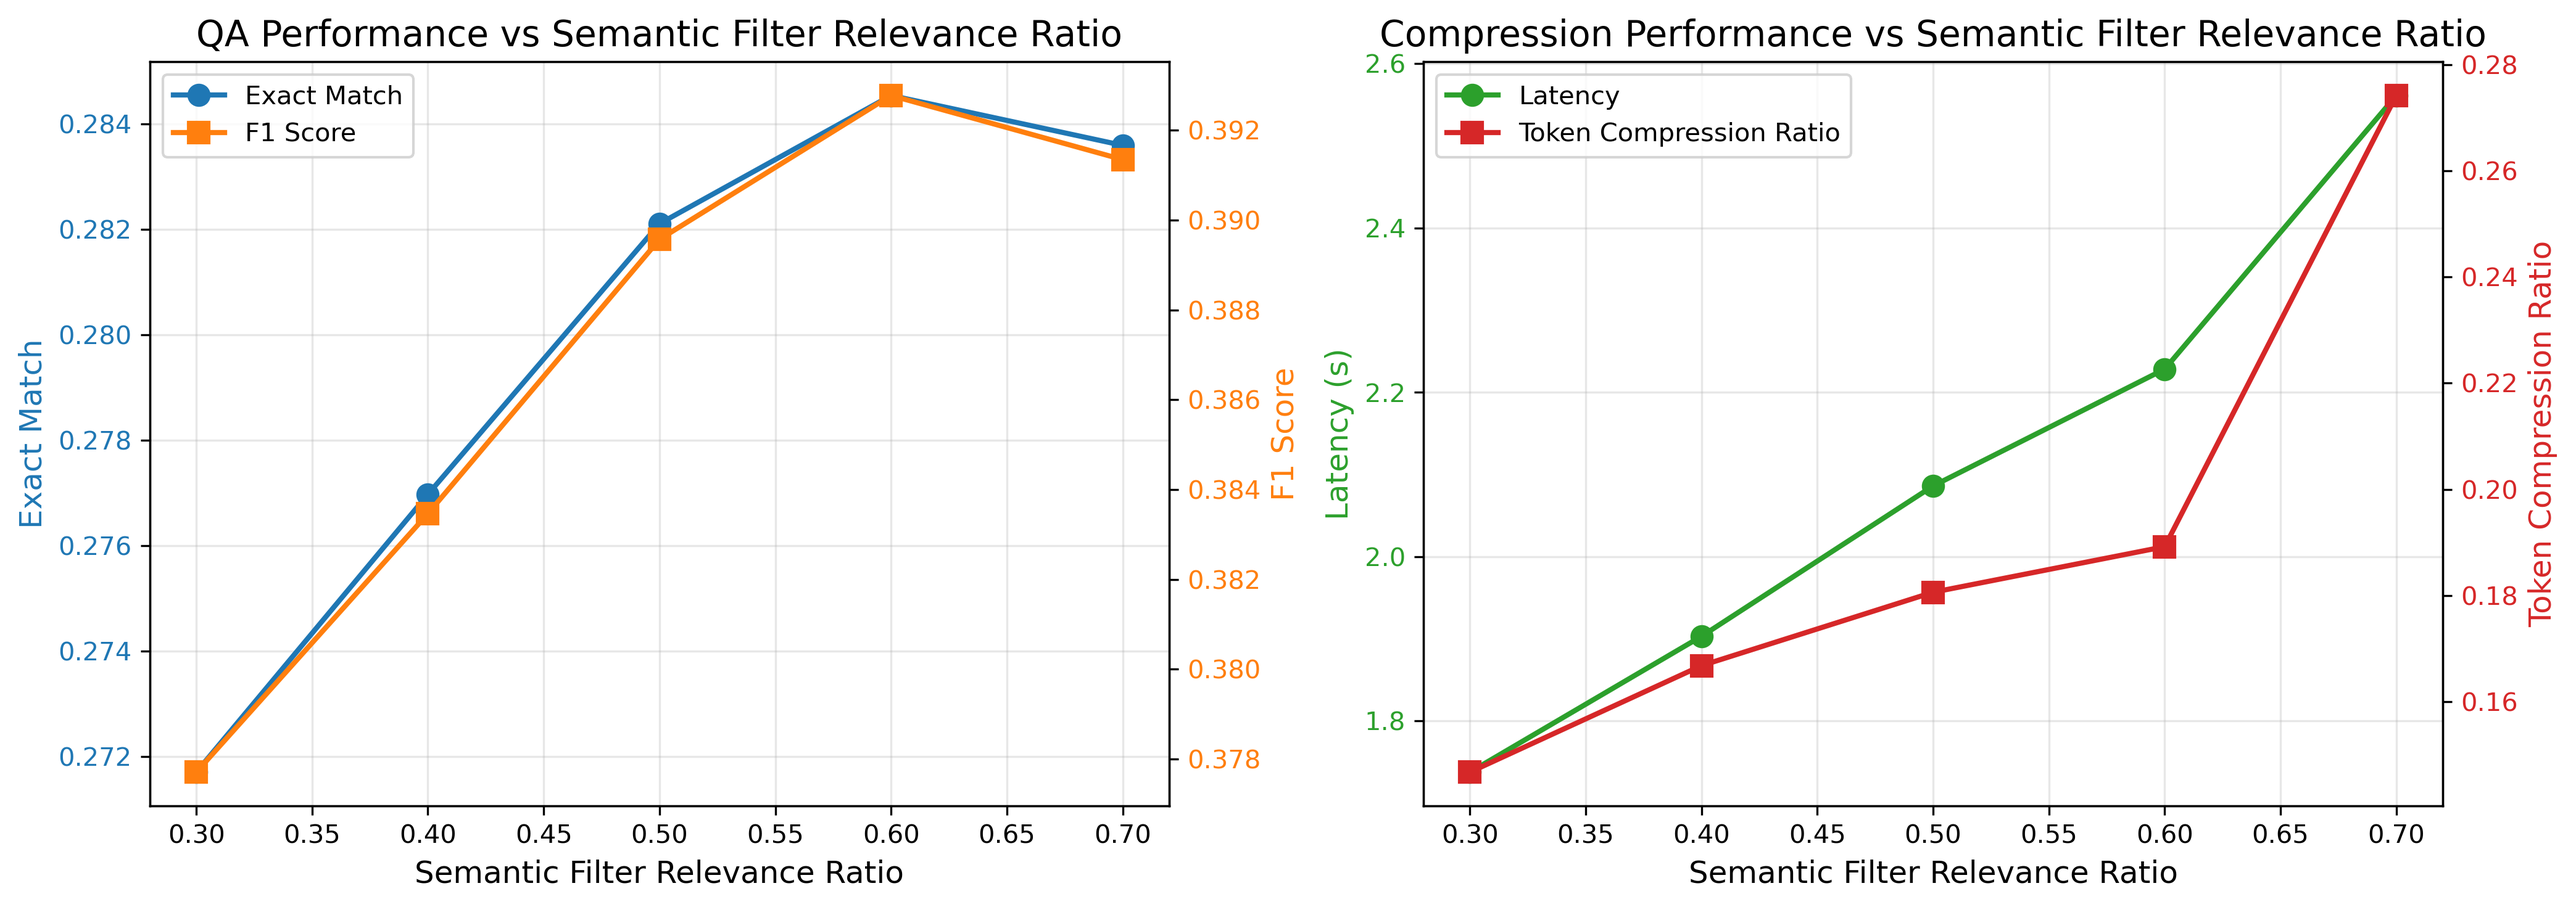
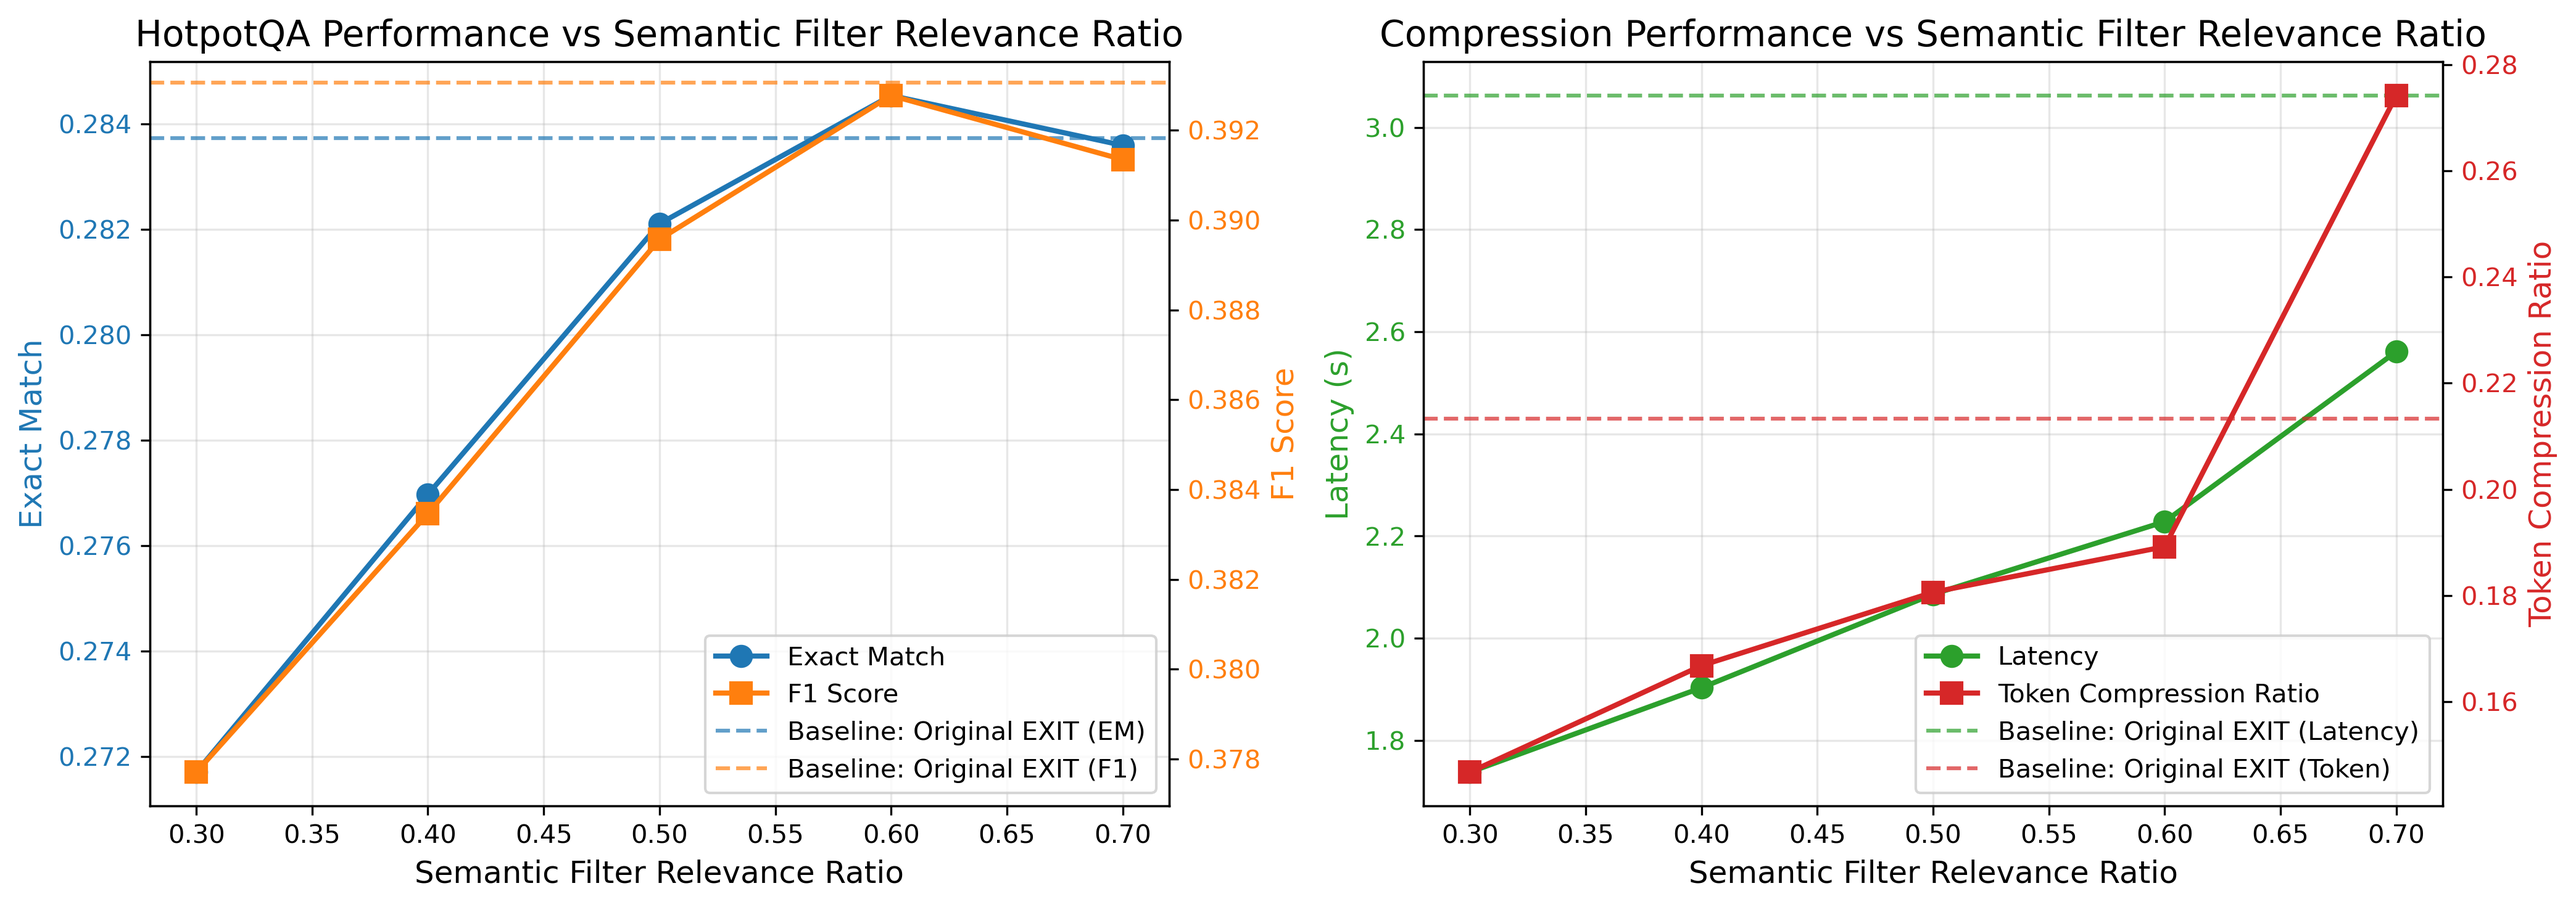
Add baseline lines

diff --git a/scripts/plot_tiered_tradeoff.py b/scripts/plot_tiered_tradeoff.py
@@ -30,6 +30,16 @@ for ratio, filepath in data_files:
         latency.append(metrics['latency'])
         token_compression.append(metrics['token_compression_ratio'])
 
+# Read baseline data
+with open(r"outputs\baseline_results\reproduction_0.1\HotpotQA_results.json", 'r', encoding="utf-8") as f:
+    baseline_data = json.load(f)
+    baseline_metrics = baseline_data['metrics']
+    
+    baseline_em = baseline_metrics['exact_match']
+    baseline_f1 = baseline_metrics['f1']
+    baseline_latency = baseline_metrics['latency']
+    baseline_token_compression = baseline_metrics['token_compression_ratio']
+
 # Create figure with two subplots
 fig, (ax1, ax2) = plt.subplots(1, 2, figsize=(14, 5))
 
@@ -47,8 +57,13 @@ ax1_twin.set_ylabel('F1 Score', color=color2, fontsize=12)
 line2 = ax1_twin.plot(ratios, f1_scores, 's-', color=color2, label='F1 Score', linewidth=2, markersize=8)
 ax1_twin.tick_params(axis='y', labelcolor=color2)
 
-ax1.set_title('QA Performance vs Semantic Filter Relevance Ratio', fontsize=14)
-lines1 = line1 + line2
+ax1.set_title('HotpotQA Performance vs Semantic Filter Relevance Ratio', fontsize=14)
+
+# Add baseline horizontal lines for QA performance
+line_base_em = ax1.axhline(y=baseline_em, color=color1, linestyle='--', linewidth=1.5, alpha=0.7, label='Baseline: Original EXIT (EM)')
+line_base_f1 = ax1_twin.axhline(y=baseline_f1, color=color2, linestyle='--', linewidth=1.5, alpha=0.7, label='Baseline: Original EXIT (F1)')
+
+lines1 = line1 + line2 + [line_base_em, line_base_f1]
 labels1 = [l.get_label() for l in lines1]
 ax1.legend(lines1, labels1, loc='best')
 
@@ -67,7 +82,12 @@ line4 = ax2_twin.plot(ratios, token_compression, 's-', color=color4, label='Toke
 ax2_twin.tick_params(axis='y', labelcolor=color4)
 
 ax2.set_title('Compression Performance vs Semantic Filter Relevance Ratio', fontsize=14)
-lines2 = line3 + line4
+
+# Add baseline horizontal lines for compression performance
+line_base_latency = ax2.axhline(y=baseline_latency, color=color3, linestyle='--', linewidth=1.5, alpha=0.7, label='Baseline: Original EXIT (Latency)')
+line_base_token = ax2_twin.axhline(y=baseline_token_compression, color=color4, linestyle='--', linewidth=1.5, alpha=0.7, label='Baseline: Original EXIT (Token)')
+
+lines2 = line3 + line4 + [line_base_latency, line_base_token]
 labels2 = [l.get_label() for l in lines2]
 ax2.legend(lines2, labels2, loc='best')
 
